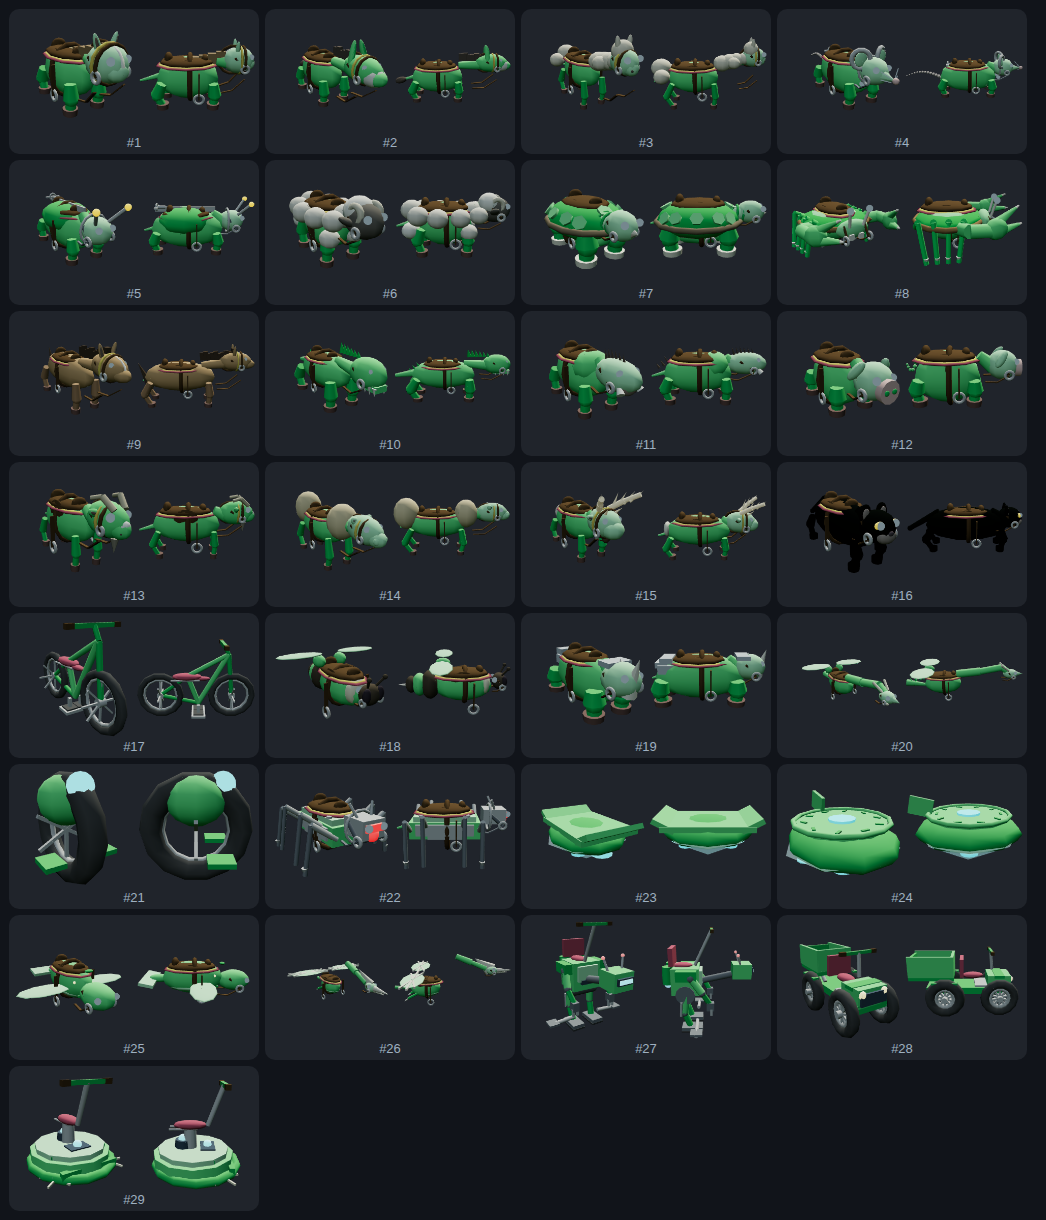
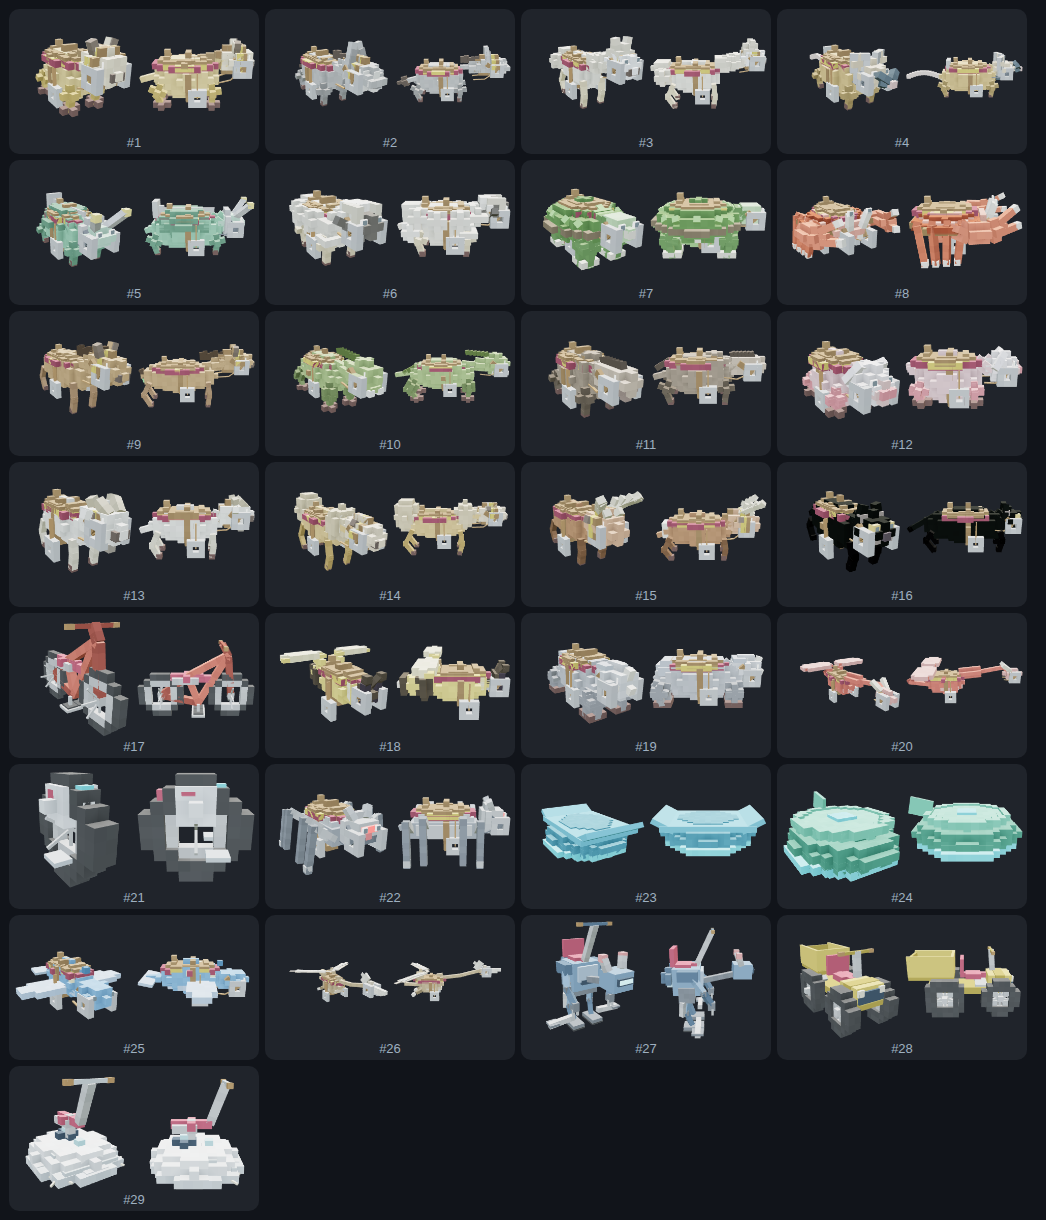
탈것 색 쨍하게 — 비평가 2인 공통 최우선 감점 'washed-out grey/tan, 색 팝 없음' 처치. Voxel.build 지터 0.06→0.035(칸별 밝기 노이즈=moldy 감소)·AO 1→0.82(색 깎는 폭 축소)로 바탕색을 끌어올리고, 채도 있는 종은 채도·명도를 조금 더 밀어 리버본드 팝을 냄(회색 동물은 s>0.12 가드로 무착색). 탈것 전용, 지오메트리 무변경
Claude-Session: https://claude.ai/code/session_018jYrC1DiyoPdzKw52MjkNh

diff --git a/web/js/scene3d.js b/web/js/scene3d.js
@@ -10400,8 +10400,20 @@ const Scene3D = {
         const vhex = (m) => (m && m.color) ? m.color.getHex() : (typeof m === 'number' ? m : c);
         const vR = (r, lo) => Math.max(lo === undefined ? 0.5 : lo, r / VP);
         const vH = (h) => Math.max(1, Math.round(h / VP));
+        // 🎨 색 쨍하게 (mount-riverbond-remake, 비평가 2인 공통 최우선 감점 "washed-out grey/tan,
+        //    no color pop"). 원인 둘: ⓐ Voxel.build 기본 지터 0.06 이 칸마다 밝기를 흔들어 240px
+        //    썸네일에서 'moldy' 로 뭉갠다(인계 메모가 이미 지목) ⓑ AO·지터가 색을 곱으로 **깎기만**
+        //    해 바탕색이 늘 어둡게 씻긴다. → 지터 0.06→0.035·AO 1→0.82 로 깎는 폭을 줄여 바탕색을
+        //    끌어올리고, 이미 채도가 있는 색(회색 동물 제외)은 채도·명도를 살짝 더 밀어 '리버본드 팝'을 낸다.
+        //    ⚠ 탈것 전용(pet/equip/enemy 는 각자 build 호출이라 무영향) — 회색 종은 s>0.12 가드로 안 물들인다.
+        const vivid = (hex) => {
+            const col = new THREE.Color(hex); const hsl = {}; col.getHSL(hsl);
+            if (hsl.s > 0.12) col.offsetHSL(0, Math.min(0.18, (1 - hsl.s) * 0.55), 0.025);
+            else col.offsetHSL(0, 0, 0.02);   // 무채색 종은 색조 안 넣고 살짝만 밝게
+            return col.getHex();
+        };
         const vbuild = (voxels, m) => {
-            const o = Voxel.build(voxels, { size: VP, color: vhex(m), material: voxMat });
+            const o = Voxel.build(voxels, { size: VP, color: vivid(vhex(m)), material: voxMat, jitter: 0.035, ao: 0.82 });
             // `alignHandlebar` 등은 원통이던 시절의 `geometry.parameters.height` 로 스템 길이를 되잰다 —
             // 복셀 BufferGeometry 엔 그 필드가 없으니 y 축 실측 높이로 셈을 넣어 계약을 유지한다.
             o.geometry.computeBoundingBox();
